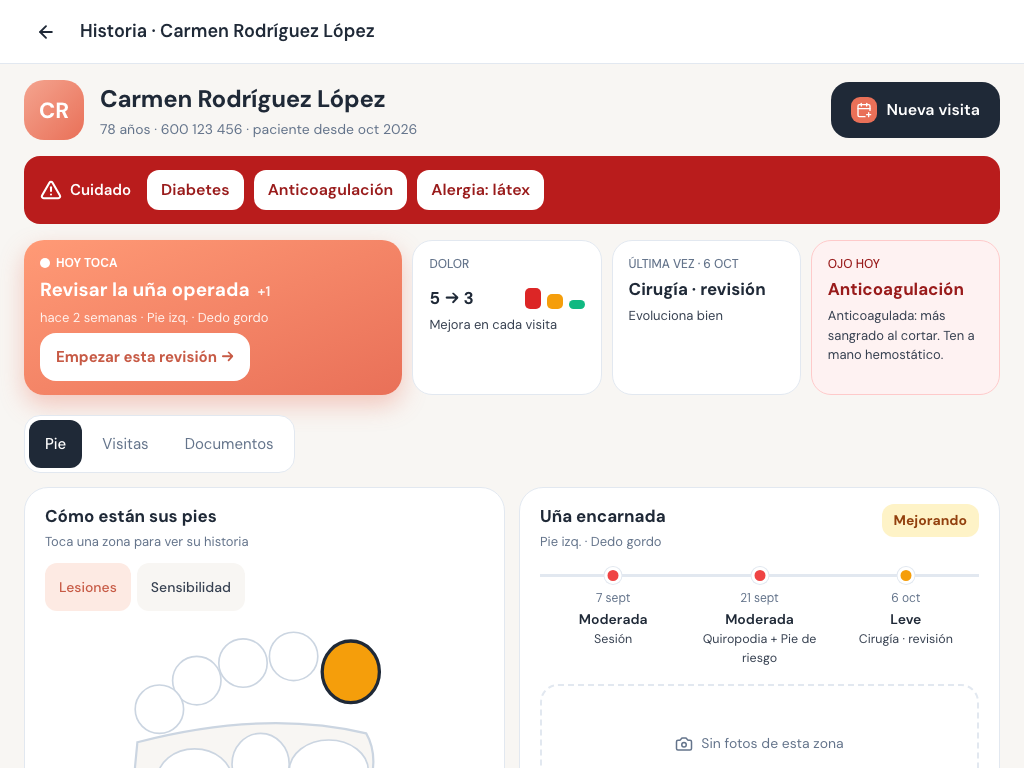
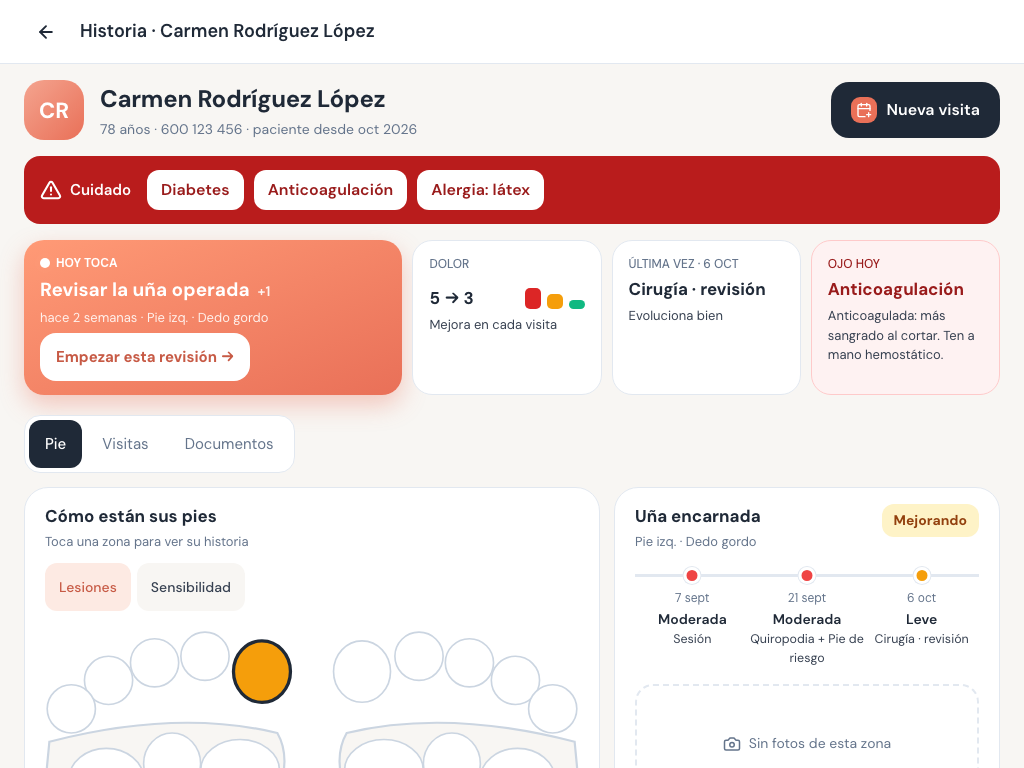
docs(clinica-6): las capturas de 1024 y 390 rehechas, y el porqué del móvil
Los dos pies lado a lado a 1024 y a 1366, a 263 px cada uno y con la zona
en 48,2. A 390 apilados a tamaño completo, declarado y con su cuenta: lado
a lado serían 163 px por pie, o sea zonas de 30.

Y el bucle MIDE ahora la disposición (`piesEnLaMismaFila`), no sólo los
tamaños. Una captura tampoco dice si dos cosas están una al lado de la
otra.

diff --git a/docs/blocks/clinica-6-done.md b/docs/blocks/clinica-6-done.md
@@ -173,6 +173,43 @@ bloque: dos dibujos distintos del mismo pie en el mismo producto son dos
 sitios donde una zona puede caer en distinto sitio, y lo que se marca ahí es
 una úlcera. Es la primera divergencia declarada (§7).
 
+### Y LOS DOS PIES VAN JUNTOS en iPad, con la cuenta en el paquete
+
+La maqueta los pone **siempre lado a lado**. La primera versión de esta
+pantalla no: a 1024 la rejilla era `lg:grid-cols-2`, o sea 480 px de
+columna, los dos pies de 264 no cabían, el `flex-wrap` partía la fila y el
+pie **derecho quedaba bajo el pliegue**. Para ver el estado completo del pie
+había que hacer scroll, que es justo lo que esta pantalla existe para no
+pedir. Lo vio la revisión del PR en las capturas (§5.5).
+
+Se sostiene por **dos mitades**, y las dos hacen trabajo:
+
+- **la columna reserva sitio**: `ANCHO_DE_LOS_DOS_PIES_PX` (536 = 2 × 264 +
+  8 de hueco), nuevo en el paquete junto al ancho del pie, más los 40 de
+  padding de la tarjeta → **576 px**. Es la misma cuenta que clinica-3 hizo
+  para la sesión (§7.2 de su done), que hasta ahora estaba escrita a mano en
+  dos sitios;
+- **y la fila no se parte**: `unaFilaDesdeLg` en `MapaDelPie` pone
+  `lg:flex-nowrap`. Si alguien estrecha la columna, los pies se encogen
+  JUNTOS en vez de irse uno debajo del otro sin avisar.
+
+Así **a 1024 y a 1366 los dos pies caben a 264 px**, sin encoger, con la
+zona en sus 48,4. Es mejor de lo que hace la maqueta: ella los encoge a 190
+px (130 por debajo de 520), pero su geometría es otra —viewBox de 132 y
+radio 24— así que a 190 px sus zonas siguen midiendo 69. Con la nuestra,
+190 px dejarían la zona en **35 px**.
+
+**A 390 se apilan, y es una decisión, no una herencia.** Ahí la tarjeta deja
+334 px útiles: lado a lado serían 163 px por pie, o sea zonas de **30 px** —
+por debajo del 44 del prompt y muy por debajo del 48 de la casa. Apilados
+van a 264 y la zona se queda en 48,4. **En un móvil el pie se mira de uno en
+uno; lo que no se puede es que no se pueda tocar.** Medido en la captura
+(§5).
+
+`SesionPodologia` **no pasa la prop y no le hace falta**: su columna son 584
+px desde clinica-3 y ahí los dos ya caben. No cambia una línea de cómo se
+ve.
+
 ### Las tres piezas compartidas que se tocaron
 
 1. **`MapaDelPie` gana tres estados** (activa / mejorando / curada) **y
@@ -242,11 +279,16 @@ historia **mezclada v1 + v2**.
 sigue montada la agenda, con sus botones de 32 px — la misma trampa del
 `getByText("30,00 €")` de clinica-3, aquí en la medición):
 
-| Ancho | Zonas | La más pequeña | Botón más pequeño | Scroll horizontal |
-| ----- | ----- | -------------- | ----------------- | ----------------- |
-| 1366 | 22 | **48,4 px** | 48 px | no |
-| 1024 | 22 | **48,4 px** | 48 px | no |
-| 390 | 22 | **48,4 px** | 48 px | no |
+| Ancho | Zonas | La más pequeña | Ancho de un pie | Los dos en una fila | Scroll horizontal |
+| ----- | ----- | -------------- | --------------- | ------------------- | ----------------- |
+| 1366 | 22 | **48,2 px** | 263 px | **sí** | no |
+| 1024 | 22 | **48,2 px** | 263 px | **sí** | no |
+| 390 | 22 | **48,4 px** | 264 px | no (apilados, §3) | no |
+
+(263 y no 264 por el redondeo subpíxel de la rejilla; la zona se queda en
+48,2 y el peldaño de la casa son 48.)
+
+El botón más pequeño de la pantalla mide 48 px en los tres anchos.
 
 ### Cuatro hallazgos, los cuatro arreglados
 
@@ -280,6 +322,16 @@ Se arregla en el ÚNICO sitio donde se dibuja el pie, así que lo hereda
 también la sesión de clinica-5. Dos pantallas que no se pongan de acuerdo en
 cuál es el pie izquierdo son peores que las dos equivocadas igual. **No lo
 sostenía ningún test** —el sabotaje que lo devolvía salía verde— y ahora sí.
+
+**5 · A 1024 los dos pies se apilaban y el derecho quedaba bajo el
+pliegue.** Lo vio la revisión del PR sobre las capturas `1024-01` y
+`1024-02`, no la primera pasada del bucle: las capturas estaban, pero nadie
+había medido si los dos pies caían en la misma fila. Ahora se mide
+(`piesEnLaMismaFila`), y el arreglo está en §3.
+
+La lección es la de siempre con una capa más: **una captura tampoco dice si
+dos cosas están una al lado de la otra — hay que preguntárselo a la
+página.** El bucle ya medía tamaños; le faltaba medir la disposición.
 
 ### Y tres cosas del banco que costaron media hora
 
@@ -351,6 +403,11 @@ Cada garantía rota a propósito y **vista en rojo**, restaurando con
 | 35 | un importe se cuela en la lista de visitas | `HistoriaViva.tsx` | 🔴 1 |
 | 36 | la franja de alertas deja de ser `role="alert"` | `piezas.tsx` | 🔴 1 |
 | 37 | **el espejo vuelve al pie derecho** | `MapaDelPie.tsx` | 🟢 → 🔴 1 |
+| **Los dos pies en una fila (revisión del PR)** |
+| 38 | **la columna del pie vuelve a ser media pantalla** | `HistoriaViva.tsx` | 🔴 1 |
+| 39 | la historia deja de pedir la fila sin partir | `HistoriaViva.tsx` | 🔴 1 |
+| 40 | el hueco entre pies cambia y la clase se queda con el número viejo | `mapa.ts` | 🔴 2 |
+| 41 | el pie nominal se encoge a 200 px | `mapa.ts` | 🔴 3 |
 
 ### Los cuatro que salieron VERDES, que son los que enseñaron algo
 
@@ -377,6 +434,17 @@ no el primero del DOM: los iconos de lucide también llevan `viewBox`.)
 **#37 · el arreglo del espejo no lo sostenía nada.** Un fallo de píxeles
 arreglado y sin test es un fallo que vuelve.
 
+### Y una lección cara de los cuatro últimos
+
+Los sabotajes **38–41 hubo que hacerlos dos veces**. La primera, el
+`git checkout --` que restaura después de cada uno se llevó por delante los
+cambios del arreglo, que todavía no estaban commiteados — y el siguiente
+sabotaje corrió sobre un fichero que ya no tenía lo que se quería romper.
+El síntoma salió lejos: la API no arrancaba, con un
+`does not provide an export named 'ANCHO_DE_LOS_DOS_PIES_PX'`.
+
+**Commitear antes de sabotear**, siempre.
+
 ---
 
 ## 7 · Divergencias declaradas con el mockup
@@ -394,7 +462,11 @@ arreglado y sin test es un fallo que vuelve.
 7. **Los iconos de los cinco tipos** son los de la casa (lucide) con el
    mismo significado que los del mockup: tijeras, triángulo, huella, jeringa
    y reloj.
-8. **En el mockup, «Cancelar» de la hoja de tipos no funciona** y las
+8. **Los pies no se encogen para caber: se les reserva sitio.** La maqueta
+   los pone lado a lado encogiéndolos (190 px, y 130 por debajo de 520);
+   aquí van lado a lado **a tamaño completo** en iPad, y apilados en móvil.
+   Es la misma intención con otra geometría — la cuenta entera, en §3.
+9. **En el mockup, «Cancelar» de la hoja de tipos no funciona** y las
    tarjetas tampoco: el `.sheet` lleva un `stopPropagation` que deja al
    listener de `document` sin ver los clics de dentro. En el producto los
    dos hacen lo suyo. (No es una divergencia de diseño: es un fallo del
@@ -427,6 +499,11 @@ arreglado y sin test es un fallo que vuelve.
    antes de dar el número por bueno.
 5. **El pie se espejaba al revés** hasta este bloque (§5.4). Conviene
    enseñarle las dos versiones y que diga cuál lee ella sin pensar.
+6. **Los dos pies apilados en móvil** (§3). En el iPad, que es la
+   referencia, van lado a lado; en el móvil hubo que elegir entre eso y
+   poder tocarlos, y se eligió poder tocarlos. Si ella mira la historia en
+   el móvil más de lo previsto, hay una tercera vía —lado a lado y una lupa
+   al tocar— que no se ha hecho porque nadie la ha pedido.
 
 ---
 
@@ -452,7 +529,9 @@ arreglado y sin test es un fallo que vuelve.
      recepción no le cambia nada;
    - **el mapa del pie espeja el otro pie** — también en la sesión de
      clinica-5. Es el arreglo de §5.4 y es lo único de este bloque que
-     cambia una pantalla que ya estaba.
+     cambia una pantalla que ya estaba. La disposición de los dos pies
+     (§3) sólo cambia en la historia: la sesión no pasa la prop nueva y se
+     ve exactamente igual que antes.
 6. **Una historia con sesiones v1 y v2 mezcladas se lee entera**, y es lo
    que el bucle visual recorrió. No hay nada que migrar en
    `clinical_entries`.

diff --git a/docs/qa/2026-10-08-clinica-6/README.md b/docs/qa/2026-10-08-clinica-6/README.md
@@ -32,13 +32,20 @@ El paciente es Carmen, con una historia **mezclada v1 + v2**:
 la historia (detrás del overlay sigue montada la agenda, con sus botones de
 32 px):
 
-| Ancho | Zonas del pie | La más pequeña | Botón más pequeño | Scroll horizontal |
-| ----- | ------------- | -------------- | ----------------- | ----------------- |
-| 1366 | 22 | **48,4 px** | 48 px | no |
-| 1024 | 22 | **48,4 px** | 48 px | no |
-| 390 | 22 | **48,4 px** | 48 px | no |
+| Ancho | Zonas | La más pequeña | Ancho de un pie | Los dos en una fila | Botón más pequeño | Scroll horizontal |
+| ----- | ----- | -------------- | --------------- | ------------------- | ----------------- | ----------------- |
+| 1366 | 22 | **48,2 px** | 263 px | **sí** | 48 px | no |
+| 1024 | 22 | **48,2 px** | 263 px | **sí** | 48 px | no |
+| 390 | 22 | **48,4 px** | 264 px | no (apilados) | 48 px | no |
 
-El prompt pide ≥ 44 px; el mínimo de la casa es 48.
+El prompt pide ≥ 44 px; el mínimo de la casa es 48. Los 263 px (en vez de
+264) son el redondeo subpíxel de la rejilla.
+
+**Los dos pies van lado a lado en iPad y apilados en móvil**, y eso también
+se mide (`piesEnLaMismaFila`) en vez de mirarlo. A 390, lado a lado serían
+163 px por pie —zonas de 30 px— así que se apilan a tamaño completo: en un
+móvil el pie se mira de uno en uno, pero tocarse tiene que poder tocar. El
+porqué entero, en `docs/blocks/clinica-6-done.md` §3.
 
 ## Lo que encontró el bucle y no la suite
 
@@ -54,3 +61,10 @@ El prompt pide ≥ 44 px; el mínimo de la casa es 48.
 4. **El pie se espejaba al revés desde clinica-3**: los tres mockups
    validados espejan el IZQUIERDO, para que los dedos gordos queden hacia
    dentro. Arreglado en el único sitio donde se dibuja el pie.
+5. **A 1024 los dos pies se apilaban y el derecho quedaba bajo el
+   pliegue** — había que hacer scroll para ver el estado completo del pie.
+   Lo vio la revisión del PR sobre estas mismas capturas, no la primera
+   pasada del bucle: las capturas estaban, pero nadie había MEDIDO si los
+   dos pies caían en la misma fila. Ahora se mide. Una captura tampoco dice
+   si dos cosas están una al lado de la otra: hay que preguntárselo a la
+   página.
